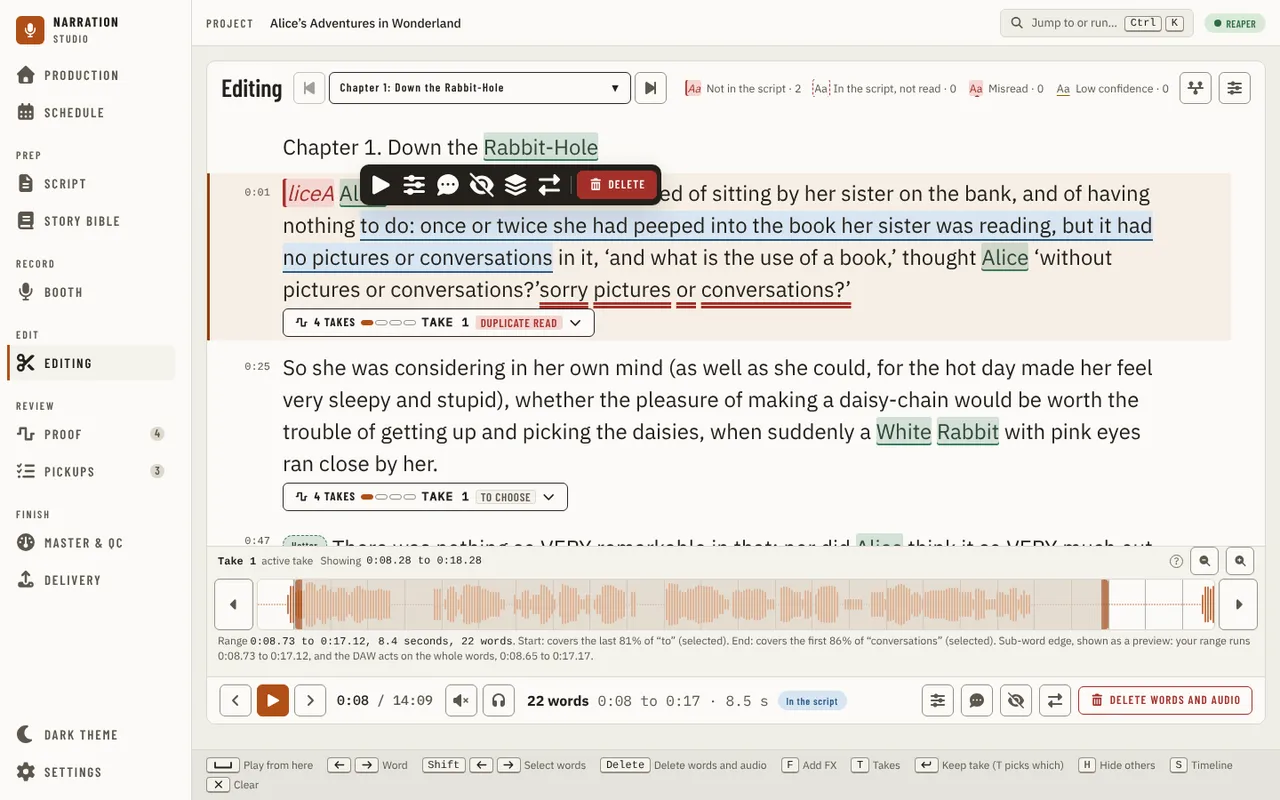
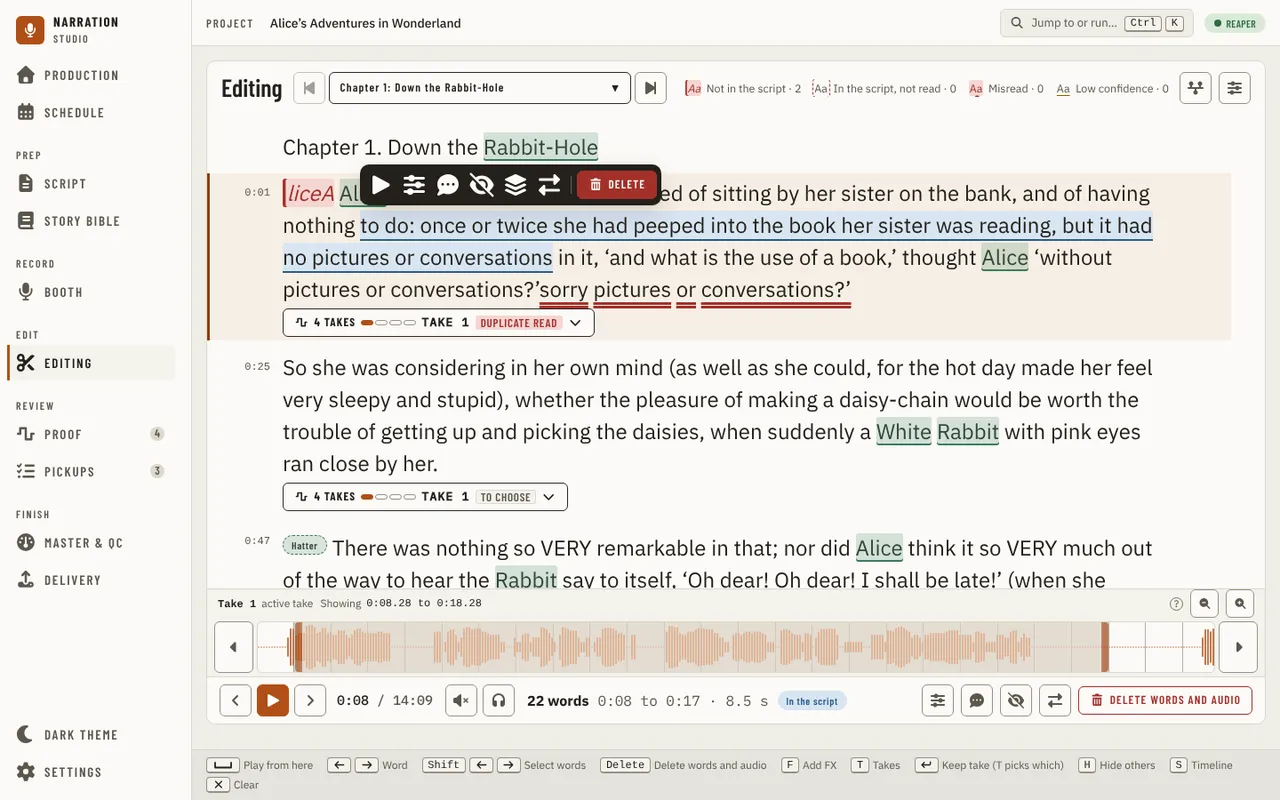
fix(ui): editing selection writes no text under the waveform (#2551)

Changed region(s): [[0.1562, 0.6562, 1.0, 0.8438]]

diff --git a/src/studio/ui/src/components/editing/ribbon/RibbonRange.test.tsx b/src/studio/ui/src/components/editing/ribbon/RibbonRange.test.tsx
@@ -7,9 +7,6 @@ import { ApiProvider } from '../../../api/ApiContext';
 import type { WorkspacePeaks } from '../../../api/contracts/workspace';
 import { createMockApi } from '../../../api/mockApi';
 import { EditingPageProvider, useEditingPage } from '../script/EditingPageState';
-import type { DocItem } from '../model';
-import { RangeNotes } from './RangeOverlay';
-import { wordsCovered } from './rangeMath';
 import { rangeDoc } from './rangeFixtures';
 import { WaveDock } from './WaveDock';
 
@@ -91,7 +88,6 @@ describe('the range on the waveform', () => {
     expect(screen.queryByRole('slider')).toBeNull();
     act(() => state.dispatch({ type: 'select', anchor: 'p-1:2', head: 'p-1:3' }));
     expect(screen.queryByRole('slider')).toBeNull();
-    expect(screen.queryByTestId('range-partial')).toBeNull();
     expect(screen.queryByText(/^Range /)).toBeNull();
   });
 
@@ -109,8 +105,8 @@ describe('the range on the waveform', () => {
     act(() => state.dispatch({ type: 'play', t: 5.1 }));
     await ready();
     expect(screen.queryByRole('slider', { name: 'Start of range' })).toBeNull();
-    // How to make one is behind the "?", not a line under the waveform (#2251): the notes slot is empty.
-    expect(document.querySelector('[data-ribbon-notes]')?.textContent).toBe('');
+    // How to make one is behind the "?", not a line under the waveform (#2251).
+    expect(document.querySelector('[data-ribbon-notes]')).toBeNull();
     expect(screen.getByRole('button', { name: 'Waveform gestures' }).getAttribute('aria-description')).toMatch(/^Drag: select\./);
   });
 
@@ -328,43 +324,22 @@ describe('what a screen reader hears', () => {
   });
 });
 
-describe('partial words are shown as they are', () => {
-  it('names the word an edge cuts through and how much of it the range covers, and previews the sub-word edge', async () => {
+describe('a drawn range writes nothing under the waveform', () => {
+  it('a range ending inside words is its drawn body and a tooltip: no readout, partial-word or sub-word text on the page (#2251)', async () => {
     mount();
     await ready();
     drag(surface(), xAt(5.54), xAt(6.296));
-    const note = await screen.findByText(/Sub-word edge, shown as a preview/);
-    expect(note.textContent).toContain('0:05.54 to 0:06.30');
-    expect(note.textContent).toContain('0:05.60 to 0:06.20');
-    const partial = screen.getByTestId('range-partial');
-    expect(partial.textContent).toBe(' Start: covers the last 20% of “was” (not selected). End: covers the first 32% of “sitting” (not selected).');
-  });
-
-  it('says nothing about sub-word edges when the range sits on whole words', async () => {
-    mount();
-    await ready();
-    select('p-1:2', 'p-1:3');
     await waitFor(() => expect(startHandle()).toBeTruthy());
-    expect(screen.queryByText(/Sub-word edge/)).toBeNull();
+    const body = document.querySelector<HTMLElement>('[data-range-body]');
+    expect(body?.title).toMatch(/^0:05\.5/);
+    expect(document.querySelector('[data-ribbon-notes]')).toBeNull();
+    expect(document.querySelector('[data-range-notes]')).toBeNull();
     expect(screen.queryByTestId('range-partial')).toBeNull();
-  });
-
-  it('a range inside one word selects that word and says how little of it the range covers', async () => {
-    mount();
-    await ready();
-    drag(surface(), xAt(7.5), xAt(7.55));
-    await waitFor(() => expect(state.state.sel).toEqual({ anchor: 'p-1:8', head: 'p-1:8' }));
-    expect(screen.getByTestId('range-partial').textContent).toBe(' Covers 14% of “sister” (selected).');
-  });
-
-  it('says so when a range covers no words, which a gap between words allows', () => {
-    const words = [
-      { key: 'g:0', text: 'one', t0: 0, t1: 1, st: 'ok' },
-      { key: 'g:1', text: 'two', t0: 2, t1: 3, st: 'ok' },
-    ] as unknown as DocItem[];
-    const span = { start: 1.2, end: 1.8 };
-    render(<RangeNotes shown={span} covered={wordsCovered(words, span)} words={words} />);
-    expect(screen.getByText(/This range covers no words\./)).toBeTruthy();
+    expect(screen.queryByText(/Sub-word edge|Covers \d+%|covers the (last|first)|This range covers no words/)).toBeNull();
+    // Nothing the dock draws in flow is a sentence: its own text is the controls' and the tooltip's.
+    const dock = document.querySelector<HTMLElement>('[data-wave-dock]');
+    const flow = [...(dock?.querySelectorAll('p:not(.sr-only)') ?? [])].map((p) => p.textContent);
+    expect(flow).toEqual([]);
   });
 });
 

diff --git a/src/studio/ui/src/components/editing/ribbon/RangeOverlay.tsx b/src/studio/ui/src/components/editing/ribbon/RangeOverlay.tsx
@@ -1,15 +1,15 @@
-import type { DocItem } from '../model';
-import { subWordNote } from '../range/common/spanRequest';
-import { MIN_RANGE, fineClock, rangeLabel, type Covered, type Span } from './rangeMath';
+import { MIN_RANGE, fineClock, rangeLabel, type Span } from './rangeMath';
 import type { RangeInteraction } from './useRangeInteraction';
 
 /** The width of a handle, in pixels. It hangs outside the edge it moves, so the two never cover each other. */
 const HANDLE = 6;
 
 const clamp = (v: number, lo: number, hi: number): number => Math.max(lo, Math.min(hi, v));
-const pct = (n: number): string => `${Math.round(n * 100)}%`;
 
-/** The range drawn over the waveform: its body, which moves all of it, and a slider handle on each edge. */
+/**
+ * The range drawn over the waveform: its body, which moves all of it, and a slider handle on each edge. What the range comes to (its time and
+ * words) is the body's tooltip; nothing is written under the waveform (#2251).
+ */
 export function RangeOverlay({
   interaction,
   t0,
@@ -61,6 +61,7 @@ export function RangeOverlay({
         <div
           role="group"
           aria-label={`Range ${label}`}
+          title={label}
           data-range-body
           className="absolute top-0 h-full cursor-grab touch-none border-x-2 border-[var(--accent)] bg-[var(--accent-soft)] opacity-60 active:cursor-grabbing"
           style={{ left: `${x0}%`, width: `${x1 - x0}%` }}
@@ -70,42 +71,5 @@ export function RangeOverlay({
       {handle('start')}
       {handle('end')}
     </>
-  );
-}
-
-const textOf = (words: readonly DocItem[], key: string): string => words.find((w) => w.key === key)?.text ?? key;
-
-/** What the range comes to in words, for the line under the waveform: its length, which words it takes, and an edge that passes through a word. */
-function partialText(covered: Covered, words: readonly DocItem[]): string {
-  const part = (cover: NonNullable<Covered['start']>): string =>
-    `“${textOf(words, cover.key)}” (${covered.keys.includes(cover.key) ? 'selected' : 'not selected'})`;
-  const { start, end } = covered;
-  if (start && end && start.key === end.key) return `Covers ${pct(start.fraction)} of ${part(start)}.`;
-  return [
-    start ? `Start: covers the last ${pct(start.fraction)} of ${part(start)}.` : '',
-    end ? `End: covers the first ${pct(end.fraction)} of ${part(end)}.` : '',
-  ]
-    .filter(Boolean)
-    .join(' ');
-}
-
-/**
- * The lines under the waveform: the range's time and words, the words an edge cuts through, and the sub-word preview. With no range they are
- * empty: how to make one is behind the "?" above the waveform, never a line here (#2251).
- */
-export function RangeNotes({ shown, covered, words }: { shown: Span | null; covered: Covered; words: readonly DocItem[] }) {
-  if (!shown) return null;
-  const partial = partialText(covered, words);
-  const sub = subWordNote(shown, covered.applied);
-  return (
-    // One wrapping paragraph, so the notes take only the lines they need in the waveform's fixed height.
-    <p className="m-0 px-3 text-xs text-[var(--text-muted)]" data-range-notes>
-      <span>
-        Range <span className="font-mono text-[var(--text)]">{rangeLabel(shown, covered.keys.length)}</span>
-        {covered.keys.length ? '.' : '. This range covers no words.'}
-      </span>
-      {partial ? <span data-testid="range-partial"> {partial}</span> : null}
-      {sub ? <span data-subword> {sub}</span> : null}
-    </p>
   );
 }

diff --git a/src/studio/ui/src/components/editing/ribbon/Ribbon.tsx b/src/studio/ui/src/components/editing/ribbon/Ribbon.tsx
@@ -8,7 +8,7 @@ import { drawRibbon, readRibbonColors, STILL_FRAME, type RibbonColors, type Ribb
 import { peaksWindowAll } from './peaksWindow';
 import { barLayout, FULL_SCALE, type PeakScale } from './ribbonBars';
 import type { RibbonLayout } from './ribbonLayout';
-import { RangeNotes, RangeOverlay } from './RangeOverlay';
+import { RangeOverlay } from './RangeOverlay';
 import { fineClock, type Span } from './rangeMath';
 import { ScrollEnd, ZoomRow } from './RibbonControls';
 import { useRangeInteraction } from './useRangeInteraction';
@@ -20,12 +20,11 @@ import { placeholderColumns } from './waveSwell';
 /** The waveform's own height (CSS pixels): the lane, not the peaks in it. */
 const HEIGHT = 56;
 /**
- * The whole waveform's height when it is a place to choose (the bottom of the Editing page): the row above (32 px), the lane (66 px with its
- * border and padding) and three 16 px lines of notes under it, which a range's notes take at 768 px (a range, its partly covered words and
- * the sub-word preview). At 140 px the third line was cut by the dock's edge (alignment audit W3). Fixed, so a range, a note or a line
+ * The whole waveform's height when it is a place to choose (the bottom of the Editing page): the row above (32 px) and the lane (66 px with its
+ * border and padding). Nothing is written under the lane: a range is its drawn body plus a tooltip. Fixed, so a range, a note or a line
  * without audio never moves what is around it (#2251, item 29).
  */
-const DOCK_HEIGHT = 146;
+const DOCK_HEIGHT = 98;
 /** Width used where nothing can measure the canvas (a test environment without ResizeObserver). */
 const FALLBACK_WIDTH = 640;
 
@@ -358,9 +357,6 @@ export function RibbonView({
         <ScrollEnd dir={-1} ribbon={ribbon} />
         <div className="flex min-w-0 flex-1 overflow-hidden rounded-md border border-[var(--border)] bg-[var(--surface)]">{lane}</div>
         <ScrollEnd dir={1} ribbon={ribbon} />
-      </div>
-      <div className="min-h-0 flex-1 overflow-hidden" data-ribbon-notes>
-        {bare ? null : <RangeNotes shown={interaction.shown} covered={interaction.covered} words={choose.words} />}
       </div>
       <p role="status" className="sr-only">
         {interaction.announcement}

diff --git a/src/studio/ui/src/components/editing/ribbon/RibbonRange.stories.tsx b/src/studio/ui/src/components/editing/ribbon/RibbonRange.stories.tsx
@@ -53,7 +53,7 @@ type Story = StoryObj<typeof meta>;
 
 const doc = rangeDoc();
 
-// No range yet: the notes slot is empty, and the "?" above the waveform says how to make one.
+// No range yet: nothing is written under the waveform, and the "?" above the waveform says how to make one.
 export const NoRange: Story = {
   args: { doc },
   play: async ({ canvasElement }) => {
@@ -62,15 +62,15 @@ export const NoRange: Story = {
   },
 };
 
-// A range with a handle on each edge, ending inside two words: the partial words are named and the sub-word edge is a labelled preview.
+// A range with a handle on each edge, ending inside two words: drawn on the waveform, with its time and words in a tooltip and no text under it.
 export const Range: Story = {
   args: { doc, range: { start: 5.54, end: 6.3 } },
   play: async ({ canvasElement }) => {
     const c = within(canvasElement);
     await expect(c.getByRole('slider', { name: 'Start of range' })).toBeTruthy();
     await expect(c.getByRole('slider', { name: 'End of range' })).toBeTruthy();
-    await expect(c.getByTestId('range-partial').textContent).toMatch(/covers the last 20% of “was”/);
-    await expect(canvasElement.textContent).toMatch(/Sub-word edge, shown as a preview/);
+    await expect(canvasElement.querySelector('[data-range-body]')?.getAttribute('title')).toMatch(/^0:05\.5/);
+    await expect(canvasElement.textContent).not.toMatch(/Sub-word edge/);
   },
 };
 
@@ -107,7 +107,6 @@ export const AtParagraphEdge: Story = {
 export const FlaggedUnderRange: Story = {
   args: { doc: marksDoc(), range: { start: 0.9, end: 2.6 } },
   play: async ({ canvasElement }) => {
-    await expect(canvasElement.textContent).toMatch(/Range/);
     await expect(within(canvasElement).getByRole('group', { name: /^Range / })).toBeTruthy();
   },
 };

diff --git a/src/studio/ui/src/components/editing/ribbon/Ribbon.test.tsx b/src/studio/ui/src/components/editing/ribbon/Ribbon.test.tsx
@@ -140,7 +140,7 @@ describe('one waveform, docked', () => {
     await waitFor(() => expect(document.querySelector('[data-ribbon-surface]')).not.toBeNull());
     const dock = () => document.querySelector('[data-wave-dock]') as HTMLElement;
     const height = dock().style.height;
-    expect(height).toBe('146px');
+    expect(height).toBe('98px');
     cleanup();
     page(doc, withPeaks(undefined, 'No waveform: the source is not a WAV.'));
     await waitFor(() => expect(screen.getByText(/No audio to draw/)).toBeTruthy());

diff --git a/docs/guides/using-the-app/editing.md b/docs/guides/using-the-app/editing.md
@@ -155,7 +155,7 @@ Proof lists the same words as **Said twice** with an **Open in Editing** link, w
 The page has one waveform, docked above the bar so it is always in view. It shows the chapter's audio and opens on the line the cursor is on;
 when the cursor moves to a line that is not on screen, or playback reaches one, the waveform moves to it. Its first row names the take that
 plays (or "Recording"), the stretch it shows, a **?** that lists the waveform's gestures when you point at it or Tab to it, and **Zoom out**
-and **Zoom in**. The line under the waveform shows a range's time and words; with no range it is blank, not a set of instructions.
+and **Zoom in**. Nothing is written under the waveform: a range is the shaded stretch with a handle on each edge, and pointing at it shows its time, length and word count.
 
 Each thin bar is how loud that moment is, drawn from the middle line. The height is in decibels against the chapter's own loud level (the
 level 99 in 100 of its sounding moments stay under), over 30 dB: a loud syllable fills the lane, a quiet one is still a clear bar, and a pause
@@ -198,8 +198,7 @@ and its words, and the range is announced when it is set.
 pointer. The view follows the playhead; scrolling it by hand while the chapter plays stops that until playback stops. One second is the
 closest view because the host keeps 50 peaks a second, 20 ms each: closer, the picture would only get bigger.
 
-**Delete** and **Add FX** still work on whole words, because the DAW takes a range as its first and last word. When an edge is inside a word, the line under the
-waveform names the word and how much of it the range covers, and the question before a cut or an effect shows "Sub-word edge, shown as a preview" with
+**Delete** and **Add FX** still work on whole words, because the DAW takes a range as its first and last word. When an edge is inside a word, the question before a cut or an effect shows "Sub-word edge, shown as a preview" with
 both ranges; the cut or effect goes on the whole words. Making it exact needs a time-based command in the DAW bridge, which is not built.
 
 ![Editing - a range drawn on the waveform with an edge inside a word, zoomed in: the two handles, the arrows at its ends, the partly covered word and the sub-word preview](../../images/ui/editing-range.webp)
